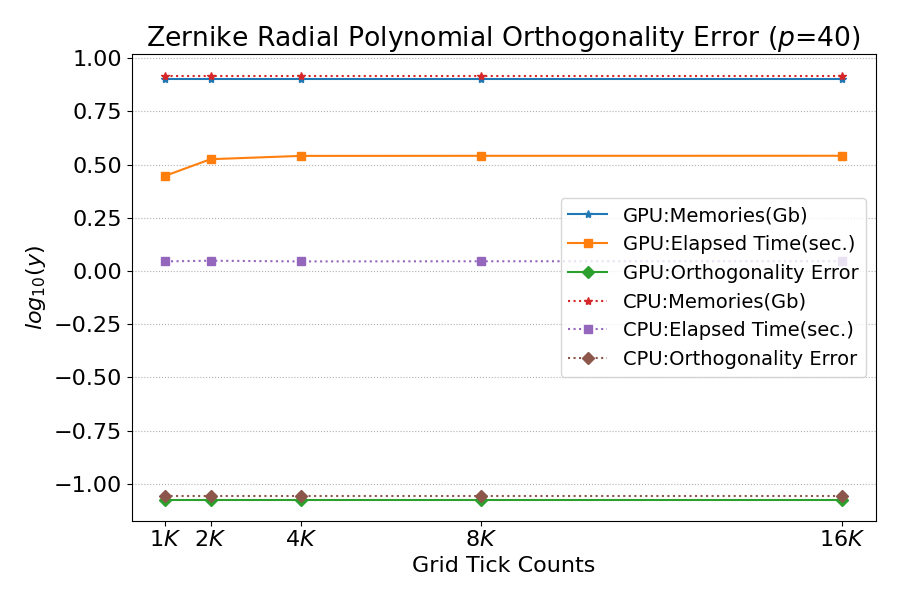
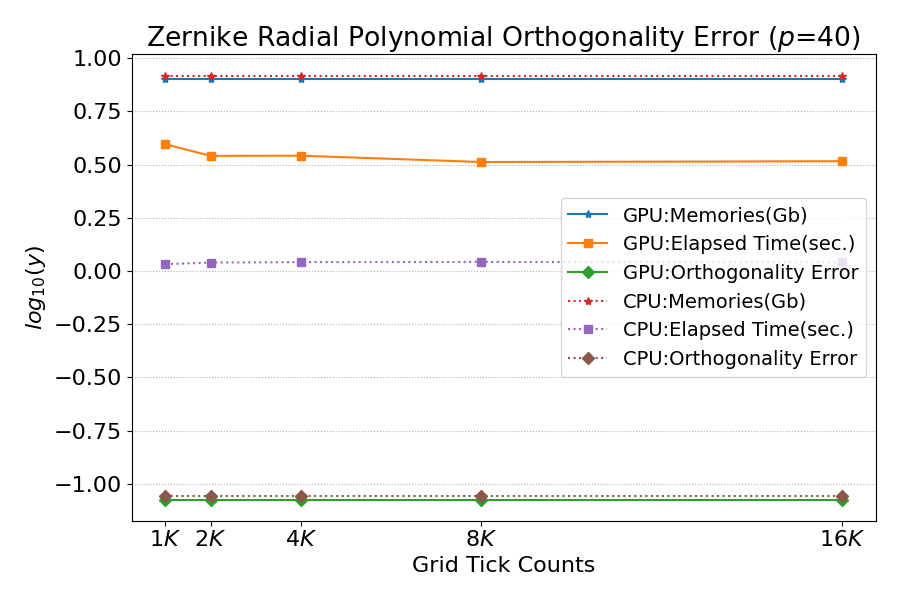
**

diff --git a/AZernike.py b/AZernike.py
@@ -51,9 +51,13 @@ pass # ray_init
 
 #@profile
 def _pqs_facotrial( p, q, t, device ) :
-    s = torch.arange( 0, t + 1) 
+    s = torch.arange( 0, t + 1 ) 
 
-    fact = factorial( p - s )/factorial( s )/factorial( (p + q)/2 - s)/factorial( (p - q)/2 - s )
+    #fact = factorial( p - s )/factorial( s )/factorial( (p + q)/2 - s)/factorial( (p - q)/2 - s )
+    fact = factorial( p - s )
+    fact = fact/factorial( s )
+    fact = fact/factorial( (p + q)/2 - s )
+    fact = fact/factorial( (p - q)/2 - s )
     
     R_ps = torch.pow( -1, s )*( fact )
 

diff --git a/ATest_08_Zernike_Orth.py b/ATest_08_Zernike_Orth.py
@@ -263,8 +263,16 @@ def validte_radial_polynomial_ortho( T, debug=0) :
     
 
     plt.tight_layout()
-    plt.savefig( f"./result/zernike_02_radial_orthogonality.png" )
+    src_dir = os.path.dirname( os.path.abspath(__file__) )
+    result_figure_file = f"{src_dir}/result/zernike_02_radial_orthogonality.png"
+    plt.savefig( result_figure_file )
     plt.show()
 
     print_curr_time()
 pass # -- validte_radial_polynomial
+
+if __name__ == "__main__" :
+    T = 40 #6 #10 # 20
+
+    validte_radial_polynomial_ortho( T, debug=1 )
+pass
